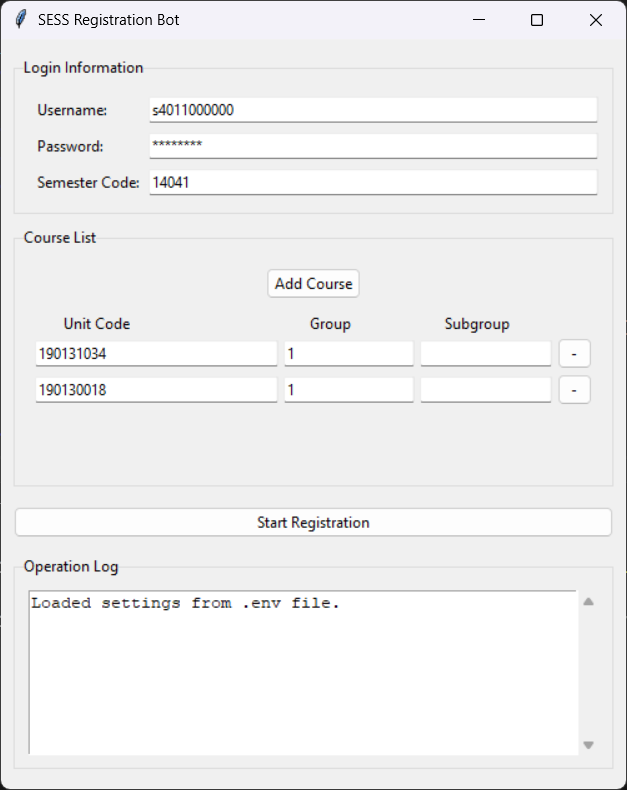
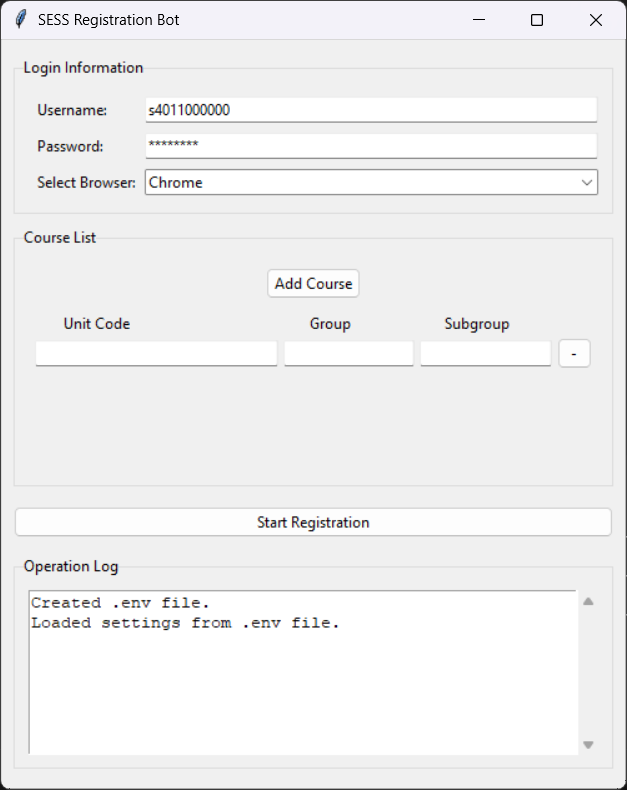
Update README
add multi-browser support & env info and update the GUI screenshot asset.

diff --git a/README.md b/README.md
@@ -34,13 +34,13 @@ Follow these steps to get the project up and running.
 ### 1. Prerequisites
 
 - **Python 3.8** or higher.
-- **Google Chrome** browser.
+- One of the supported browsers: **Chrome, Firefox, Edge, or Safari**.
 
 ### 2. Installation
 
 1.  First, clone the repository to your local machine:
     ```bash
-    git clone [https://github.com/rashcode-com/Sess-Registration-Bot.git](https://github.com/rashcode-com/Sess-Registration-Bot.git)
+    git clone https://github.com/rashcode-com/Sess-Registration-Bot.git
     cd Sess-Registration-Bot
     ```
 
@@ -54,7 +54,8 @@ Follow these steps to get the project up and running.
 The application uses a `.env` file to store your settings. The way you configure this file depends on how you run the bot.
 
 **For GUI Users (Recommended):**
-You do not need to create the `.env` file manually. The first time you run the application (`python main.py`), the file will be created automatically. You can then enter your username, password, courses, and semester directly into the graphical interface, and your settings will be saved to the `.env` file for the next time you run the app.
+You do not need to create the `.env` file manually. The first time you run the application (`python main.py`), the file will be created automatically. You can then enter your username, password, courses, and browser directly into the graphical interface
+, and your settings will be saved to the `.env` file for the next time you run the app.
 
 **For CLI Users:**
 Before running in CLI mode, you **must** create and configure the `.env` file manually. The easiest way is to make a copy of the provided sample file:
@@ -73,7 +74,7 @@ Then, open the `.env` file and fill in your personal information according to th
 | `SESS_USERNAME` | Your student ID number.                                                                              | `s4011000000`                   |
 | `SESS_PASSWORD` | Your password for the SESS portal.                                                                   | `YourPassword`                  |
 | `COURSES`     | A comma-separated list of courses. Format: `unit_code:group_code` or `unit_code:group_code:subgroup_code`. | `"190200000:1,190100000:1:1"` |
-| `SEMESTER`    | The 5-digit code for the academic semester.                                                          | `"14041"`                       |
+| `BROWSER`       | The browser to use (Chrome, Firefox, Edge, Safari). Default is Chrome. | `"Chrome"` |
 
 ---
 
@@ -97,7 +98,7 @@ you can use the command-line interface by passing the `--cli` argument.
 python main.py --cli
 ```
 
-The bot will launch a Chrome browser and begin the automated registration process. A full report of its actions will be logged.
+The bot will launch the selected browser and begin the automated registration process.
 
 ---
 
